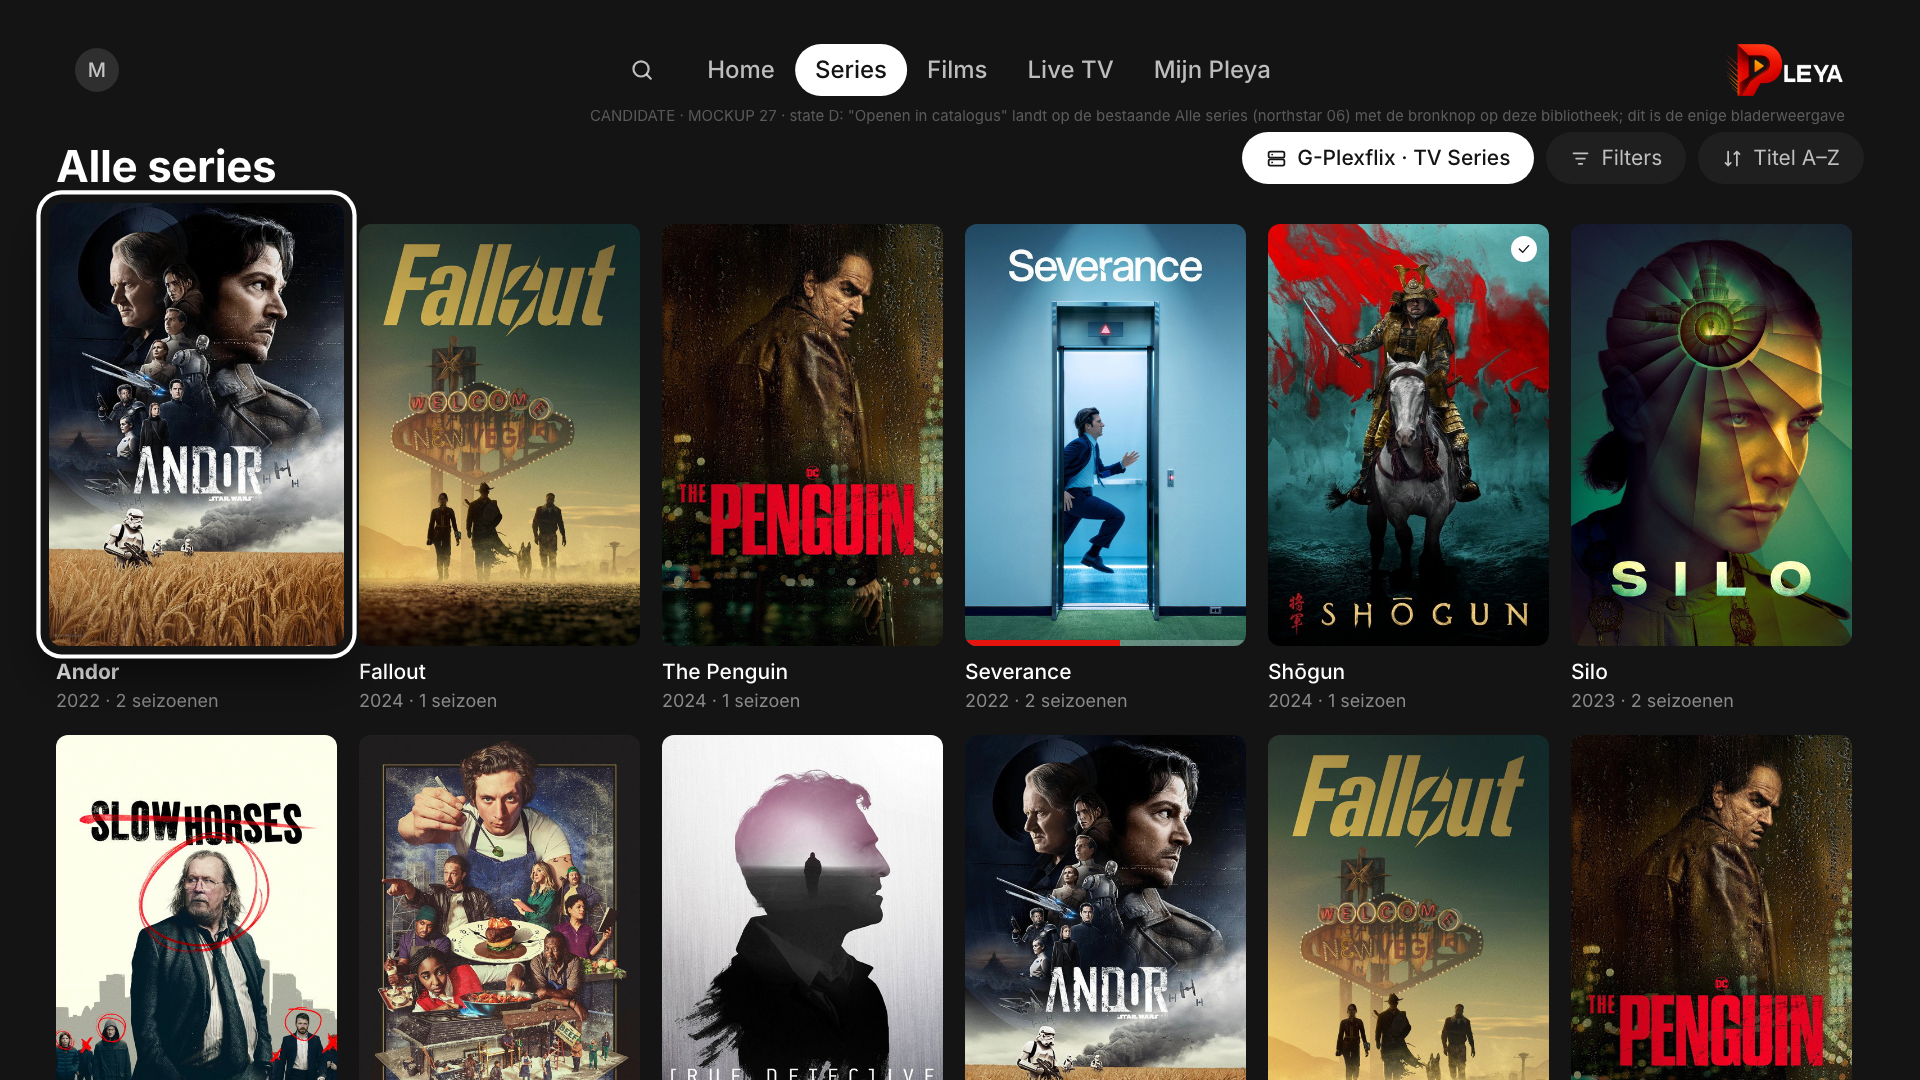
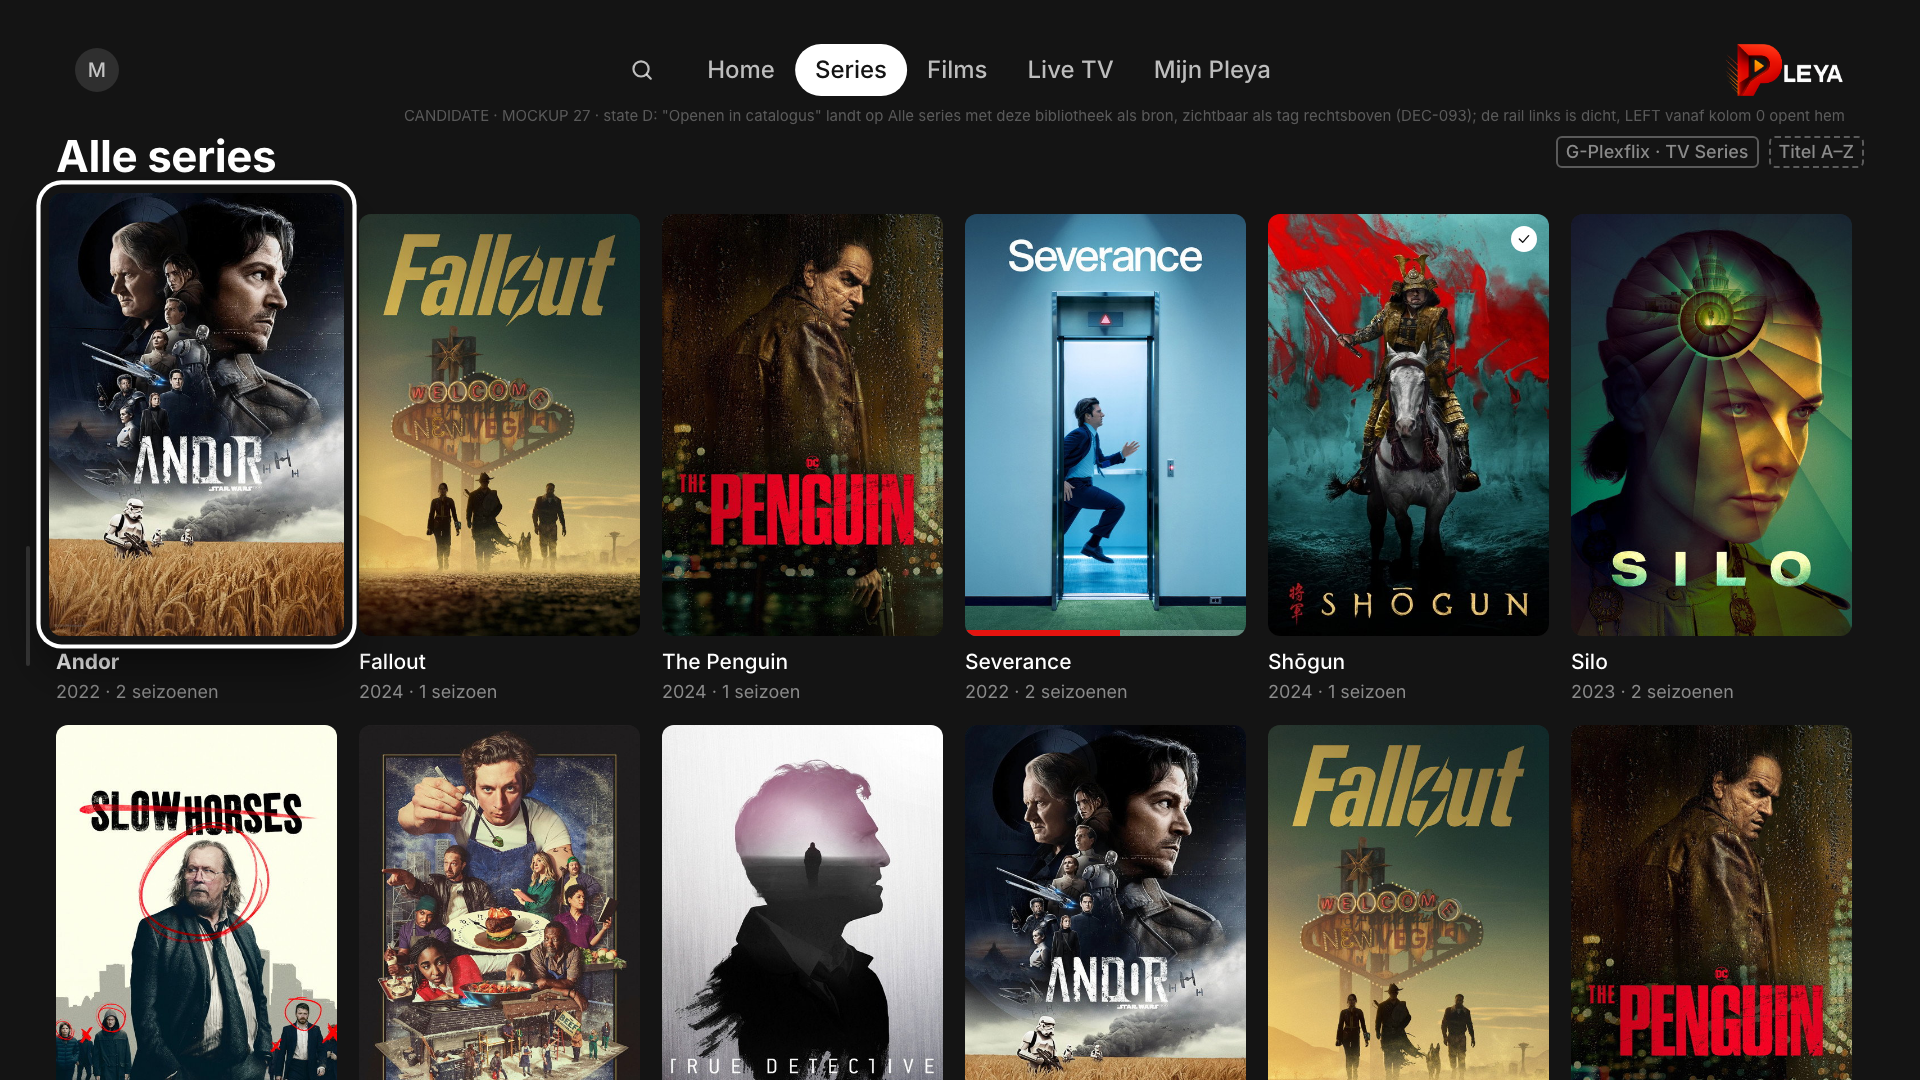
docs(tv): DEC-093 accepted, de catalogusacties in een inklapbare rail
Michel keurde mockup 28 D1 en D2 goed. Bronnen, Filters en Sortering
verhuizen van rechtsboven naar een rail links van het raster die dicht is
zolang de focus in het raster zit en opent op LEFT vanaf kolom 0; de gekozen
filters staan dicht als tags rechtsboven. 10.2b en 10.6 van de spec zijn
aangepast met een noot over het oude contract, CAT5 staat op goedgekeurd met de
bouw als eigen ronde, en state D van mockup 27 volgt de rail. De negatieve
controle voor de bouw en de herschrijving van de CAT4-test staan in DEC-093.
Geen code geraakt.

Changed region(s): [[0.0, 0.0917, 0.9688, 1.0], [0.3438, 0.6111, 0.5, 0.9167], [0.8125, 0.6111, 0.9062, 0.6722]]

diff --git a/docs/assets/tvos-unified/src/pages/27-bronbeheer-d.html b/docs/assets/tvos-unified/src/pages/27-bronbeheer-d.html
@@ -1,14 +1,18 @@
 <style>
 .page { padding: 0 var(--grid-inset); }
 .head { display: flex; align-items: flex-end; gap: 28px; }
-.head .chips { margin-left: auto; margin-bottom: 6px; }
+.head .sel { display: flex; gap: 10px; margin-left: auto; margin-bottom: 12px; }
+.head .sel .tag { border-color: var(--ink-4); color: var(--ink-3); }
+.head .sel .tag.muted { border-style: dashed; }
+.edge { position: absolute; left: 0; top: 132px; bottom: 0; width: 56px; display: flex; align-items: center; justify-content: center; }
+.edge i { width: 4px; height: 120px; border-radius: 2px; background: rgba(255,255,255,.14); }
 .grid6 { margin-top: 34px; }
 </style>
 {{nav:Series|live}}
 <div class="page">
   <div class="head">
     <div><div class="page-title">Alle series</div></div>
-    <div class="chips"><div class="chip-btn on">{{icon:server}} G-Plexflix · TV Series</div><div class="chip-btn">{{icon:filter}} Filters</div><div class="chip-btn">{{icon:sort}} Titel A–Z</div></div>
+    <div class="sel"><span class="tag">G-Plexflix · TV Series</span><span class="tag muted">Titel A–Z</span></div>
   </div>
   <div class="grid6">
     <div class="card focus"><div class="art"><img src="{{art:andor-poster}}"></div><div class="t">Andor</div><div class="s">2022 · 2 seizoenen</div></div>
@@ -25,4 +29,5 @@
     <div class="card"><div class="art"><img src="{{art:penguin-poster}}"></div><div class="t">The Penguin</div><div class="s">2024</div></div>
   </div>
 </div>
-<div class="note">CANDIDATE · MOCKUP 27 · state D: "Openen in catalogus" landt op de bestaande Alle series (northstar 06) met de bronknop op deze bibliotheek; dit is de enige bladerweergave</div>
+<div class="edge"><i></i></div>
+<div class="note">CANDIDATE · MOCKUP 27 · state D: "Openen in catalogus" landt op Alle series met deze bibliotheek als bron, zichtbaar als tag rechtsboven (DEC-093); de rail links is dicht, LEFT vanaf kolom 0 opent hem</div>

diff --git a/docs/DECISIONS.md b/docs/DECISIONS.md
@@ -1813,3 +1813,11 @@ en legt het oude gedrag vast: na een volledige-venster push is niets in de balk 
 **Context:** §4.5 van `docs/tvos-unified-experience.md` houdt Bibliotheken als "de geavanceerde bronweergave": één library kiezen, Aanbevolen, Bladeren, Collecties, Afspeellijsten. Mockup 26 (`docs/assets/tvos-unified/mockups-2026-09-04/26-bibliotheken-*.png`) tekent precies dat in de nieuwe taal, en Michel wees het op 4 september af, letterlijk: "Ik vind de werking van deze pagina gewoon niet in lijn met wat we aan het bouwen zijn", met als toelichting "in kader van unified". De spec spreekt zichzelf hier tegen. §10.4 zet server en library al bij de globale filters van de unified catalogus, en de app heeft die knop als "Alle bronnen" op Alle films (`lib/widgets/tv/tv_catalog_header_bar.dart`). Bladeren per bibliotheek heeft dus al een unified thuis; §4.5 bouwt er een tweede, per bron, naast. Wat §1524 als "alleen in Bibliotheken" benoemt is beheer: scan, analyse, prullenbak, metadata-refresh op de hele library, mappen bladeren, verbergen en ordenen. De styling-audit van 2 september had Bibliotheken als klasse E gemarkeerd, het enige scherm waar het productcontract zelf in het geding is, en vroeg er apart akkoord voor. Dat akkoord is er nu niet gekomen; er kwam een andere richting voor terug.
 **Decision:** Bibliotheken wordt bronbeheer en verliest het bladeren. (1) De pagina toont per server de bibliotheken als beheerregels met soort, aantal, zichtbaar of verborgen en volgorde; per regel de acties Openen in catalogus, Vernieuwen, Scannen, Verbergen, en waar de backend het draagt Mappen, Analyseren en Prullenbak. Openen in catalogus landt op de bestaande Alle films of Alle series met deze bibliotheek als bronfilter; dat is de enige bladerweergave. (2) De tabs Aanbevolen en Bladeren vervallen; aanbevelingen doen Home, Films en Series over alle bronnen heen. (3) Collecties en Afspeellijsten verlaten de pagina en worden eigen ingangen in de Mijn Pleya-hub, over alle bronnen, met mockup 24 als detail. Mockup 27 (`27-bronbeheer-a` tot en met `-e`) tekent dit in het systeem van 09 tot en met 26. Spec-wijzigingen die dit vraagt, pas door te voeren zodra dit besluit `accepted` is: §4.5 herschrijven naar bronbeheer; in de tabel van 18.2 de rij "Bibliotheken verbergen/ordenen" laten staan en "Bibliotheken" beschrijven als beheer; in §1524 collectionbeheer en playlistbeheer verplaatsen naar hun eigen ingangen. De twee acceptatie-eisen van Michel gaan mee: elke knop bereikbaar met de afstandsbediening, en geen afwijking van de andere schermen.
 **Consequences:** `LibrariesScreen` op TV verliest de tabstructuur en de kiezer uit LIB1 tot en met LIB3; die drie bevindingen zijn gesloten op een contract dat verdwijnt, en dat is geen verspilling: de verzoening tussen selectie en lijst (LIB1) en de race bij snel wisselen (LIB2) gelden onverkort voor een beheerlijst die dezelfde bibliotheken laadt. iOS en macOS blijven buiten deze wijziging; hun bibliotheekinterface volgt DEC-090. Negatieve controle voor de bouwronde: een widgettest die de TV-route van Bibliotheken pompt en eist dat er geen tab Aanbevolen of Bladeren bestaat en dat elke bibliotheekregel een actie Openen in catalogus draagt, rood op de huidige code. Wat dit besluit niet doet: code raken. Dit is de correctieronde van 4 september; de bouw is een eigen ronde met eigen bewijs. LIB4 is vervangen door LIB7 in `docs/tvos-fysieke-correctieronde.md`. Geaccepteerd door Michel op 4 september 2026 op mockup 27, in zijn woorden: "Verder akkoord op de mockup alleen de filters nog bij alle films en series posities." Dat voorbehoud gaat over de positie van Bronnen, Filters en Sortering op de catalogus zelf, staat als CAT5 in de correctieronde en krijgt een eigen besluit; het raakt de werking van Bibliotheken niet.
+
+## DEC-093: De catalogusacties op TV zitten in een inklapbare rail links van het raster, en de gekozen filters staan als tags rechtsboven
+
+**Date:** 2026-09-04
+**Status:** accepted
+**Context:** Hoofdstuk 10.2 van `docs/tvos-unified-experience.md` bindt de éénregelige kop met Bronnen, Filters en Sortering rechtsboven naast de paginakop, en de code volgt dat (`lib/widgets/tv/tv_catalog_header_bar.dart`). CAT3 zette die cluster op de canonieke rechterrand en CAT4 maakte hem bereikbaar; beide zijn dicht. Op een fysieke Apple TV met build 248 vond Michel de plek zelf verkeerd: klein, ver van het raster, en één UP te ver is de topnav. Zijn woorden bij het goedkeuren van mockup 27: "de filters moeten ook nog een betere positie krijgen zodat je deze makkelijker kan bereiken op tvos". Drie posities zijn getekend als mockup 28 (`docs/assets/tvos-unified/mockups-2026-09-04/28-catalogusfilters-*.png`): A de huidige, B de cluster links naast de kop met Play/Pause als snelkoppeling, C een verticale rail links van het raster. Hij koos C, met twee eisen: niet permanent in beeld, en de gekozen filters subtiel zichtbaar in het raster. Op de eerste uitwerking vroeg hij de tags naar rechtsboven, omdat die plek vrijkomt zodra er niets bedienbaars meer hoeft te staan.
+**Decision:** De drie catalogusacties verhuizen naar een rail links van het raster die dicht is zolang de focus in het raster zit (D1) en opent op LEFT vanaf kolom 0 (D2). Dicht: zes kolommen, een stille streep aan de linkerrand als affordance, en de actieve keuzes als niet-bedienbare tags rechtsboven op de plek van de oude cluster, met de sortering gestippeld zodat hij niet als filter leest. Open: één paneel in de tegeltaal, per regel icoon, label en huidige waarde (Bronnen, Filters, Sortering), daaronder de keuzes als tags en Wissen; het raster schuift naar vijf kolommen. RIGHT of Menu sluit de rail en de focus keert terug op de kaart waar hij vandaan kwam. Het filterpaneel van 10.6 blijft bestaan en opent vanuit de rij Filters; de Play/Pause-snelkoppeling uit 10.6 blijft toegestaan en is geen vervanging. Dit geldt voor Alle films, Alle series, Kijklijst (mockup 14) en elke catalogus die de kop van 10.2 gebruikt, dus ook state D van mockup 27.
+**Consequences:** 10.2 en 10.6 zijn aangepast en northstar 05, 06 en mockup 14 lopen achter op het besluit; ze worden bij de eerstvolgende herschietronde bijgetrokken en tot die tijd is 28 D1/D2 bindend voor de positie. De code verandert nog niet: dit is de correctieronde van 4 september en de bouw is een eigen ronde. Negatieve controle voor die ronde: een widgettest die Alle films pompt met de focus op kolom 0 en eist dat LEFT de rail opent met de focus op Bronnen, dat RIGHT hem sluit met de focus terug op dezelfde kaart, en dat de kop geen focusbare actie meer draagt; rood op de huidige code. De reachability-test van CAT4 (`test/screens/tv/tv_catalog_header_reachability_test.dart`) verliest zijn onderwerp en wordt herschreven op de rail, niet verwijderd. Wat open blijft: de exacte breedte van de rail tegen de 8.1-veiligheidsband, en of vijf kolommen op de 1280x918-ondergrens van CAT1 nog passen; beide zijn maten voor de bouwronde. Vastgelegd als CAT5 in `docs/tvos-fysieke-correctieronde.md`.

diff --git a/docs/tvos-fysieke-correctieronde.md b/docs/tvos-fysieke-correctieronde.md
@@ -83,7 +83,7 @@ code-parity-audit die daaronder ligt. De voortgang per heringericht oppervlak st
 | LIB3 | TV-tabs dragen nog de oude rode onderstreping | FIXED, hardware open | `3e9d31b` |
 | LIB4 | Bibliotheken draait op alles behalve de kiezer nog de oude layout: kop, achtergrond, acties en landing wijken af van `libraries-a.png` en `libraries-d.png` | VERVANGEN door LIB7 | n.v.t. |
 | LIB7 | Bibliotheken wordt bronbeheer: bladeren loopt via de catalogus met bronfilter, Collecties en Afspeellijsten worden eigen unified ingangen; DEC-092 accepted, mockup 27 goedgekeurd, bouwronde open | GOEDGEKEURD, bouw open | n.v.t. |
-| CAT5 | De filters op de catalogus (Bronnen, Filters, Sortering) moeten op tvOS een betere positie krijgen, zodat ze makkelijker te bereiken zijn | OPEN, besluit nodig | n.v.t. |
+| CAT5 | De catalogusacties gaan naar een inklapbare rail links van het raster, met de gekozen filters als tags rechtsboven; DEC-093 accepted, mockup 28 D1/D2 goedgekeurd, bouwronde open | GOEDGEKEURD, bouw open | n.v.t. |
 | LIB5 | De spotlight-titel op Bibliotheken valt over de tabrij, en maakt de actieve tab minder leesbaar dan de inactieve | OPEN | n.v.t. |
 | LIB6 | Complete mockupset voor Bibliotheken: mockup 26, negen states in `docs/assets/tvos-unified/mockups-2026-09-04/`, gebouwd op `tv.css` en `build.mjs` van de 09-25-familie, die nu in `docs/assets/tvos-unified/src/` staan | KLAAR, contract afgewezen | n.v.t. |
 | WL2 | Kijklijst end-to-end in Pleya Verify | OPEN | n.v.t. |
@@ -2039,3 +2039,8 @@ Op D1 en D2 zei Michel, letterlijk: "Graag die waarop gefilterd mag dan wel rech
 getoond worden want nu hoeven die niet meer bereikbaar te zijn en je hebt daar meer
 ruimte." De tags in de ingeklapte stand zijn daarmee naar rechtsboven verhuisd, de plek
 waar de chips stonden en die vrijkwam zodra ze niet meer bedienbaar hoefden te zijn.
+
+Goedgekeurd door Michel op 4 september op D1 en D2. DEC-093 staat op accepted, 10.2 en
+10.6 van de spec zijn aangepast, en state D van mockup 27 is op dezelfde rail
+hertekend. De bouw is een eigen ronde; de negatieve controle staat in DEC-093, en de
+CAT4-test wordt daarbij herschreven op de rail in plaats van weggegooid.

diff --git a/docs/tvos-unified-experience.md b/docs/tvos-unified-experience.md
@@ -741,10 +741,19 @@ waar focus moeilijk komt.
 ### 10.2b Complete catalogus — "Alles bekijken" (fase 5)
 
 ```
-Films                    [Alle bronnen] [Filters 2] [Titel A–Z]
-[poster] [poster] [poster] [poster] [poster] [poster]
+Films                       Niet bekeken · Sciencefiction · Titel A–Z
+▏[poster] [poster] [poster] [poster] [poster] [poster]
 [poster] [poster] [poster] [poster] [poster] [poster]
 ```
+
+> Gewijzigd door [DEC-093](DECISIONS.md#dec-093). Tot 4 september 2026 stonden Bronnen, Filters en
+> Sortering als drie capsules rechtsboven naast de kop. Ze zitten nu in een rail links van het
+> raster die dicht is zolang de focus in het raster zit en opent op LEFT vanaf kolom 0; dicht blijven
+> zes kolommen staan met een stille streep aan de linkerrand, open schuift het raster naar vijf
+> kolommen en toont de rail per regel icoon, label en huidige waarde, met de keuzes als tags en
+> Wissen eronder. RIGHT of Menu sluit de rail en de focus keert terug op dezelfde kaart. De actieve
+> keuzes staan dicht als niet-bedienbare tags rechtsboven, de sortering gestippeld. Mockup 28 D1 en
+> D2 zijn bindend voor de positie; northstar 05, 06 en mockup 14 lopen daarop achter.
 
 Geen grote hero op deze pagina. Vaste topnav. Een compacte sticky page header. Grid met 6–7 kolommen
 afhankelijk van dichtheid. Bestaande TV-cardscale en focusring. Posters 2:3. Titels maximaal twee
@@ -796,8 +805,8 @@ Servers; Bibliotheken. Actieve keuzes zijn visueel geselecteerd én focusbaar. S
 Toepassen. Wijzigingen worden pas toegepast bij Toepassen, zodat de grid niet na elke remote-klik
 herlaadt en focus steelt. Menu sluit zonder toepassen. Actieve filtercount verschijnt op de
 Filter-knop. Een bron/library die niet meer bestaat wordt bij openen automatisch uit de opgeslagen
-selectie verwijderd. De zichtbare knop blijft de primaire route; Play/Pause is hooguit een
-snelkoppeling.
+selectie verwijderd. De rij Filters in de rail van 10.2b is de primaire route; Play/Pause is hooguit
+een snelkoppeling (DEC-093).
 
 ### 10.7 Counts
 
